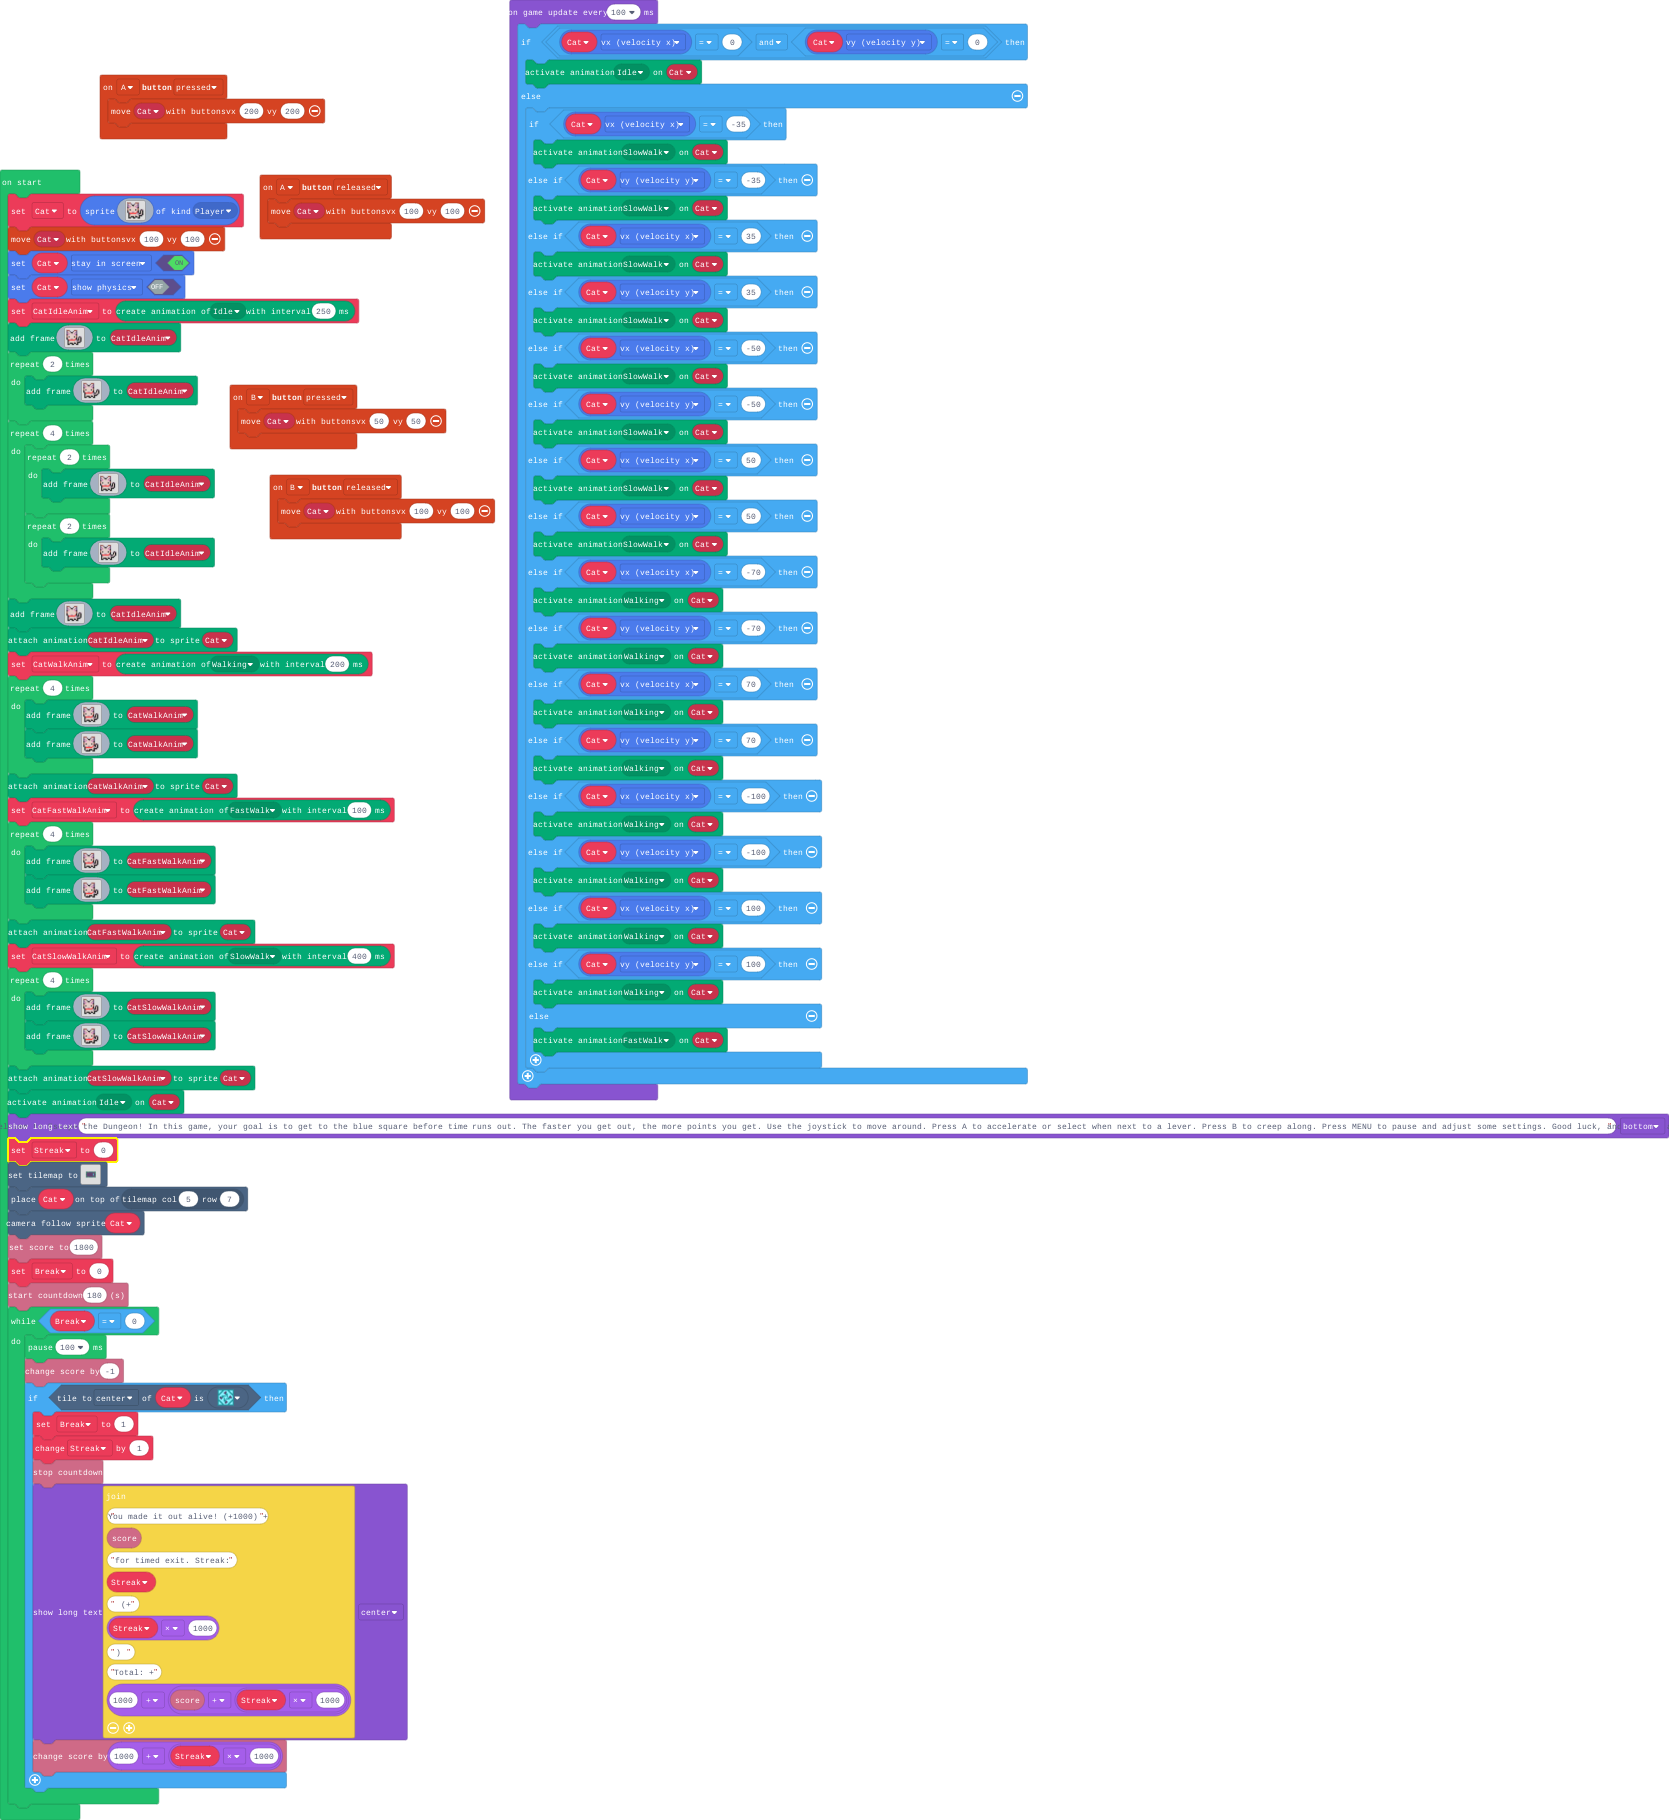
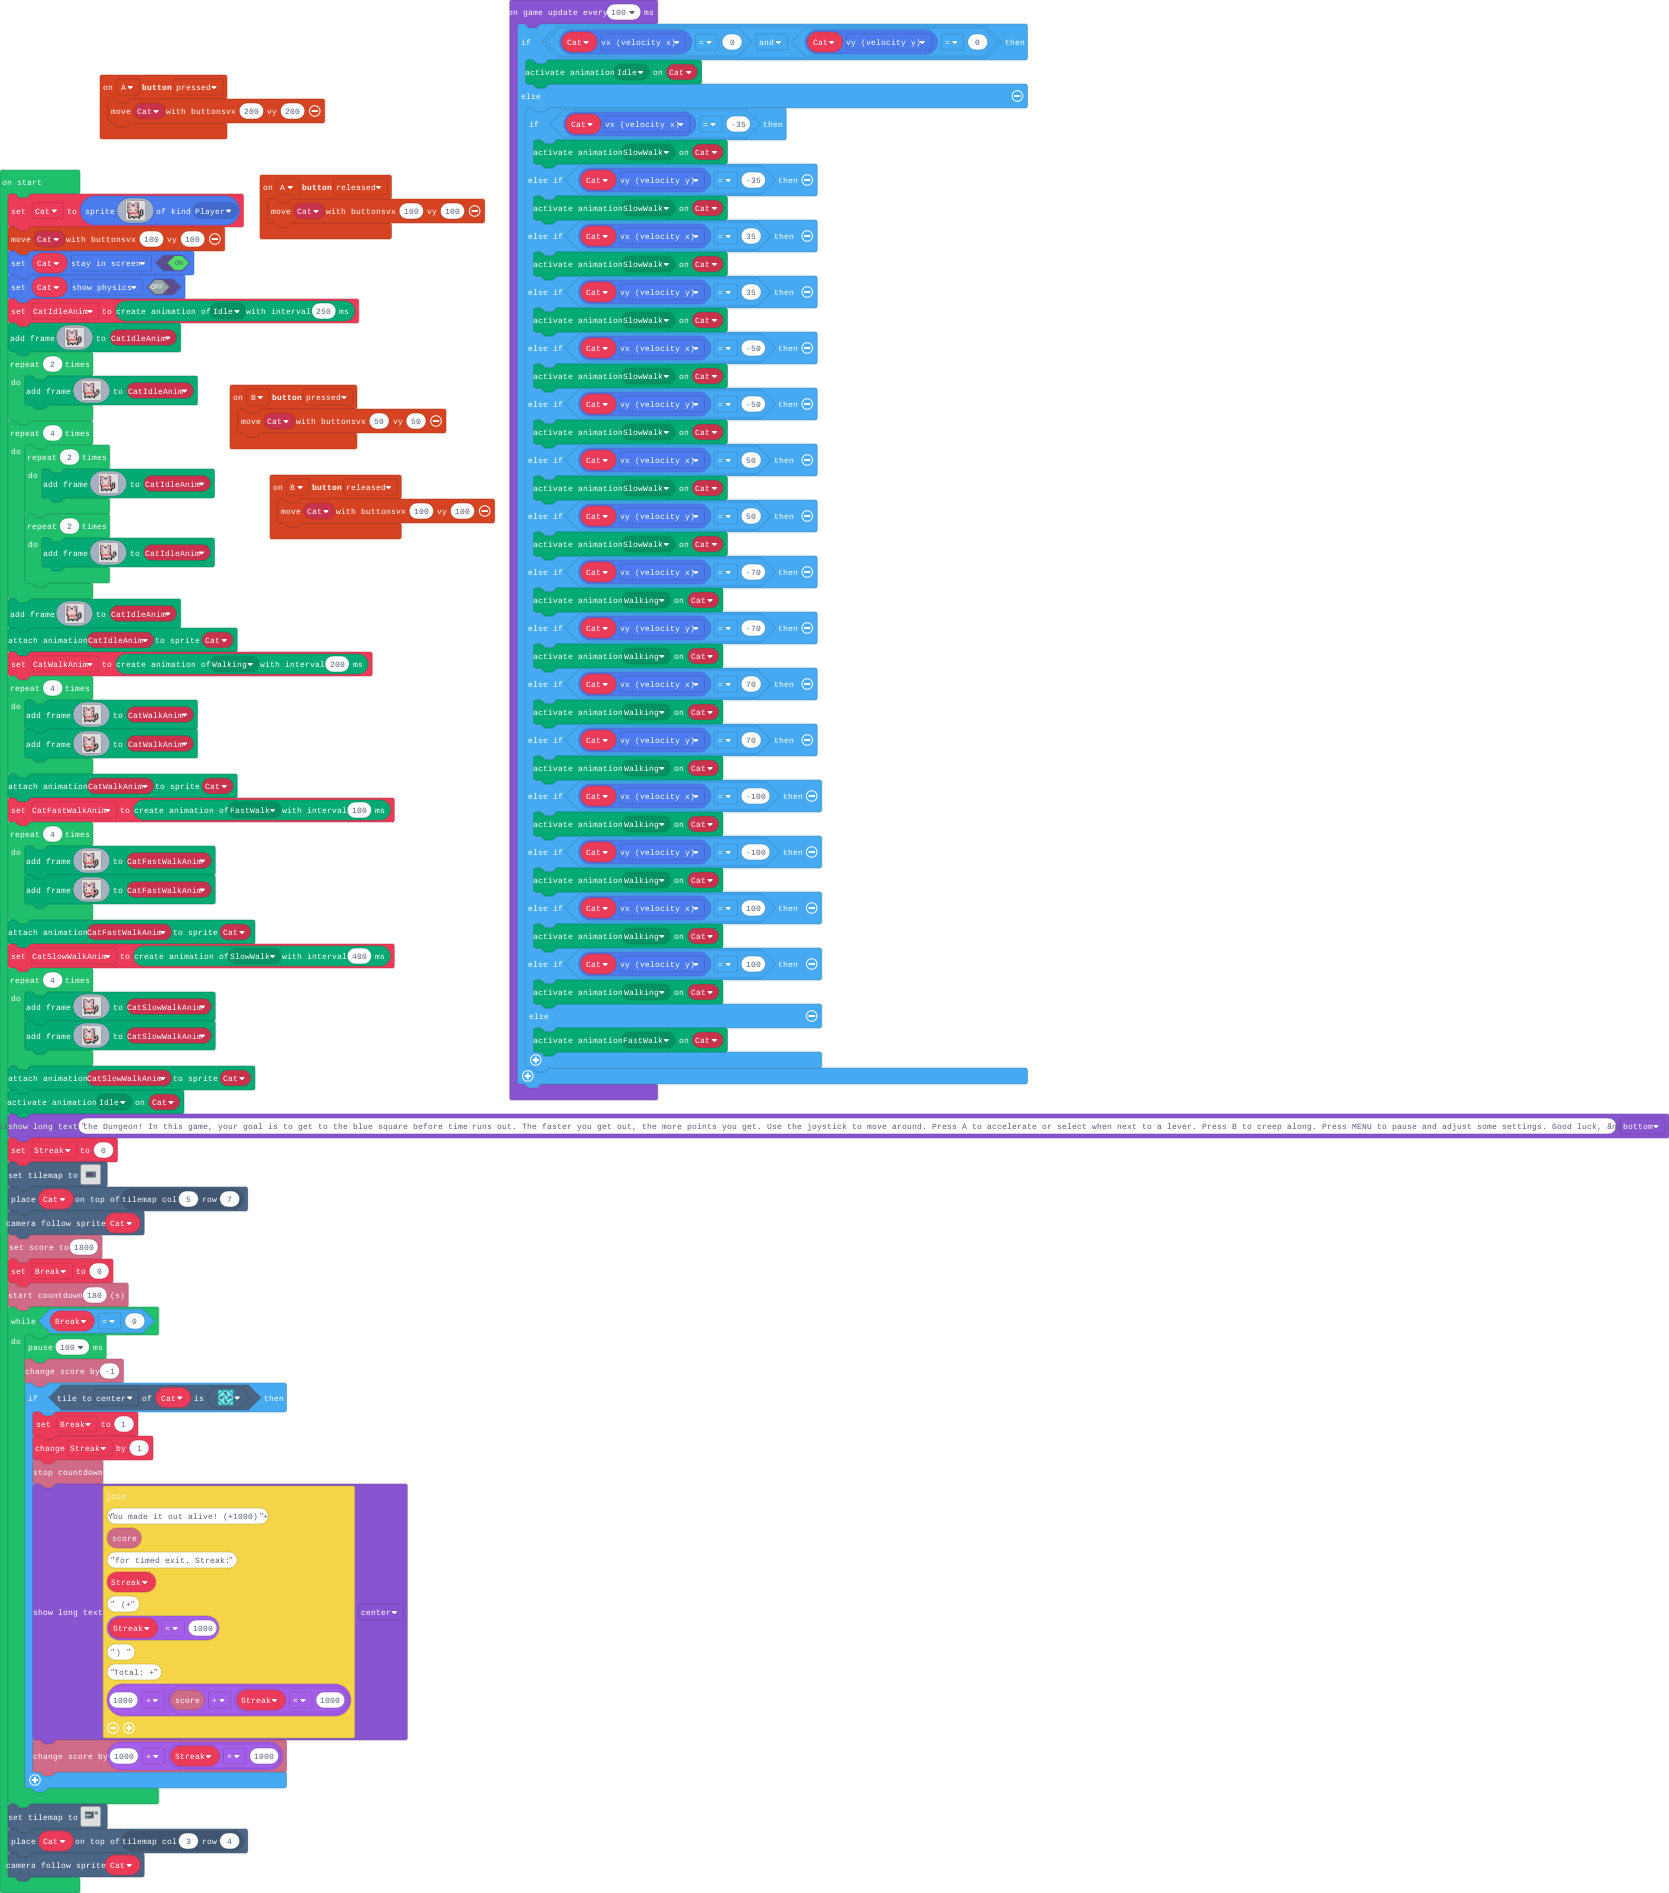
Update main.blocks, main.ts

Changed region(s): [[0.0, 0.0, 1.0, 1.0]]

diff --git a/main.ts b/main.ts
@@ -298,6 +298,31 @@ while (Break == 0) {
         info.changeScoreBy(1000 + Streak * 1000)
     }
 }
+tiles.setTilemap(tiles.createTilemap(
[1 lines of base64/hex data omitted]
+            img`
+2 2 2 2 2 2 2 2 2 2 2 2 2 2 2 2 
+2 2 2 2 2 2 2 2 2 2 2 2 2 2 2 2 
+2 2 2 2 2 2 2 2 2 2 2 2 2 2 2 2 
+2 2 2 2 2 2 2 2 2 2 2 2 2 2 2 2 
+2 2 2 . . . . . . . 2 2 2 2 2 2 
+2 2 2 2 2 2 2 2 2 . 2 2 2 2 2 2 
+2 2 2 2 2 2 2 2 2 . 2 2 2 2 2 2 
+2 2 2 2 2 2 2 2 2 . 2 2 2 2 2 2 
+2 2 2 . . . . . . . 2 2 2 2 2 2 
+2 2 2 2 2 2 2 2 2 2 2 2 2 2 2 2 
+2 2 2 2 2 2 2 2 2 2 2 2 2 2 2 2 
+2 2 2 2 2 2 2 2 2 2 2 2 2 2 2 2 
+2 2 2 2 2 2 2 2 2 2 2 2 2 2 2 2 
+2 2 2 2 2 2 2 2 2 2 2 2 2 2 2 2 
+2 2 2 2 2 2 2 2 2 2 2 2 2 2 2 2 
+2 2 2 2 2 2 2 2 2 2 2 2 2 2 2 2 
+`,
+            [myTiles.tile0,sprites.dungeon.darkGroundNorthWest0,sprites.dungeon.darkGroundWest,sprites.dungeon.darkGroundSouthWest0,sprites.dungeon.darkGroundNorth,sprites.dungeon.darkGroundNorthEast0,sprites.dungeon.darkGroundSouthEast0,sprites.dungeon.darkGroundEast,sprites.dungeon.darkGroundSouth,sprites.dungeon.darkGroundCenter,sprites.dungeon.greenOuterNorth0,sprites.dungeon.greenOuterNorth1,sprites.dungeon.greenOuterNorthWest,sprites.dungeon.greenOuterNorthEast,sprites.dungeon.greenOuterSouthWest,sprites.dungeon.greenOuterSouthEast,sprites.dungeon.greenOuterWest1,sprites.dungeon.greenOuterWest0,sprites.dungeon.greenOuterSouth0,sprites.dungeon.greenOuterSouth1,sprites.dungeon.greenOuterEast0,sprites.dungeon.greenOuterEast1,sprites.dungeon.greenOuterNorth2,sprites.dungeon.greenOuterSouth2,sprites.dungeon.greenOuterEast2,sprites.dungeon.greenOuterWest2,sprites.dungeon.collectibleInsignia],
+            TileScale.Sixteen
+        ))
+tiles.placeOnTile(Cat, tiles.getTileLocation(3, 4))
+scene.cameraFollowSprite(Cat)
 game.onUpdateInterval(100, function () {
     if (Cat.vx == 0 && Cat.vy == 0) {
         animation.setAction(Cat, ActionKind.Idle)
